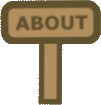
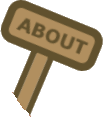
Updated title screen ui

diff --git a/core/src/ics/yudzeen/abstracto/screens/objects/Cloud.java b/core/src/ics/yudzeen/abstracto/screens/objects/Cloud.java
@@ -36,7 +36,7 @@ public class Cloud extends Actor {
         setHeight(texture.getRegionHeight());
         setX(random.nextInt(850));
         setY(GameConstants.HEIGHT - getHeight() - 20);
-        animationSpeed = random.nextInt(100) + 50;
+        animationSpeed = random.nextInt(50) + 50;
     }
 
     private void init() {
@@ -70,7 +70,7 @@ public class Cloud extends Actor {
         }
         else {
             setX(GameConstants.WIDTH + 100);
-            animationSpeed = random.nextInt(100) + 50;
+            animationSpeed = random.nextInt(50) + 50;
         }
     }
 }

diff --git a/core/src/ics/yudzeen/abstracto/screens/TitleScreen.java b/core/src/ics/yudzeen/abstracto/screens/TitleScreen.java
@@ -97,7 +97,7 @@ public class TitleScreen extends AbstractoScreen {
 
     private void initAboutButton() {
         aboutButton = ButtonFactory.createImageButton(assets.buttons.about);
-        aboutButton.setPosition(GameConstants.WIDTH - aboutButton.getWidth() - 130, 55);
+        aboutButton.setPosition(GameConstants.WIDTH - aboutButton.getWidth() - 35, 80);
         aboutButton.addListener(new ClickListener() {
             @Override
             public void clicked(InputEvent event, float x, float y) {
